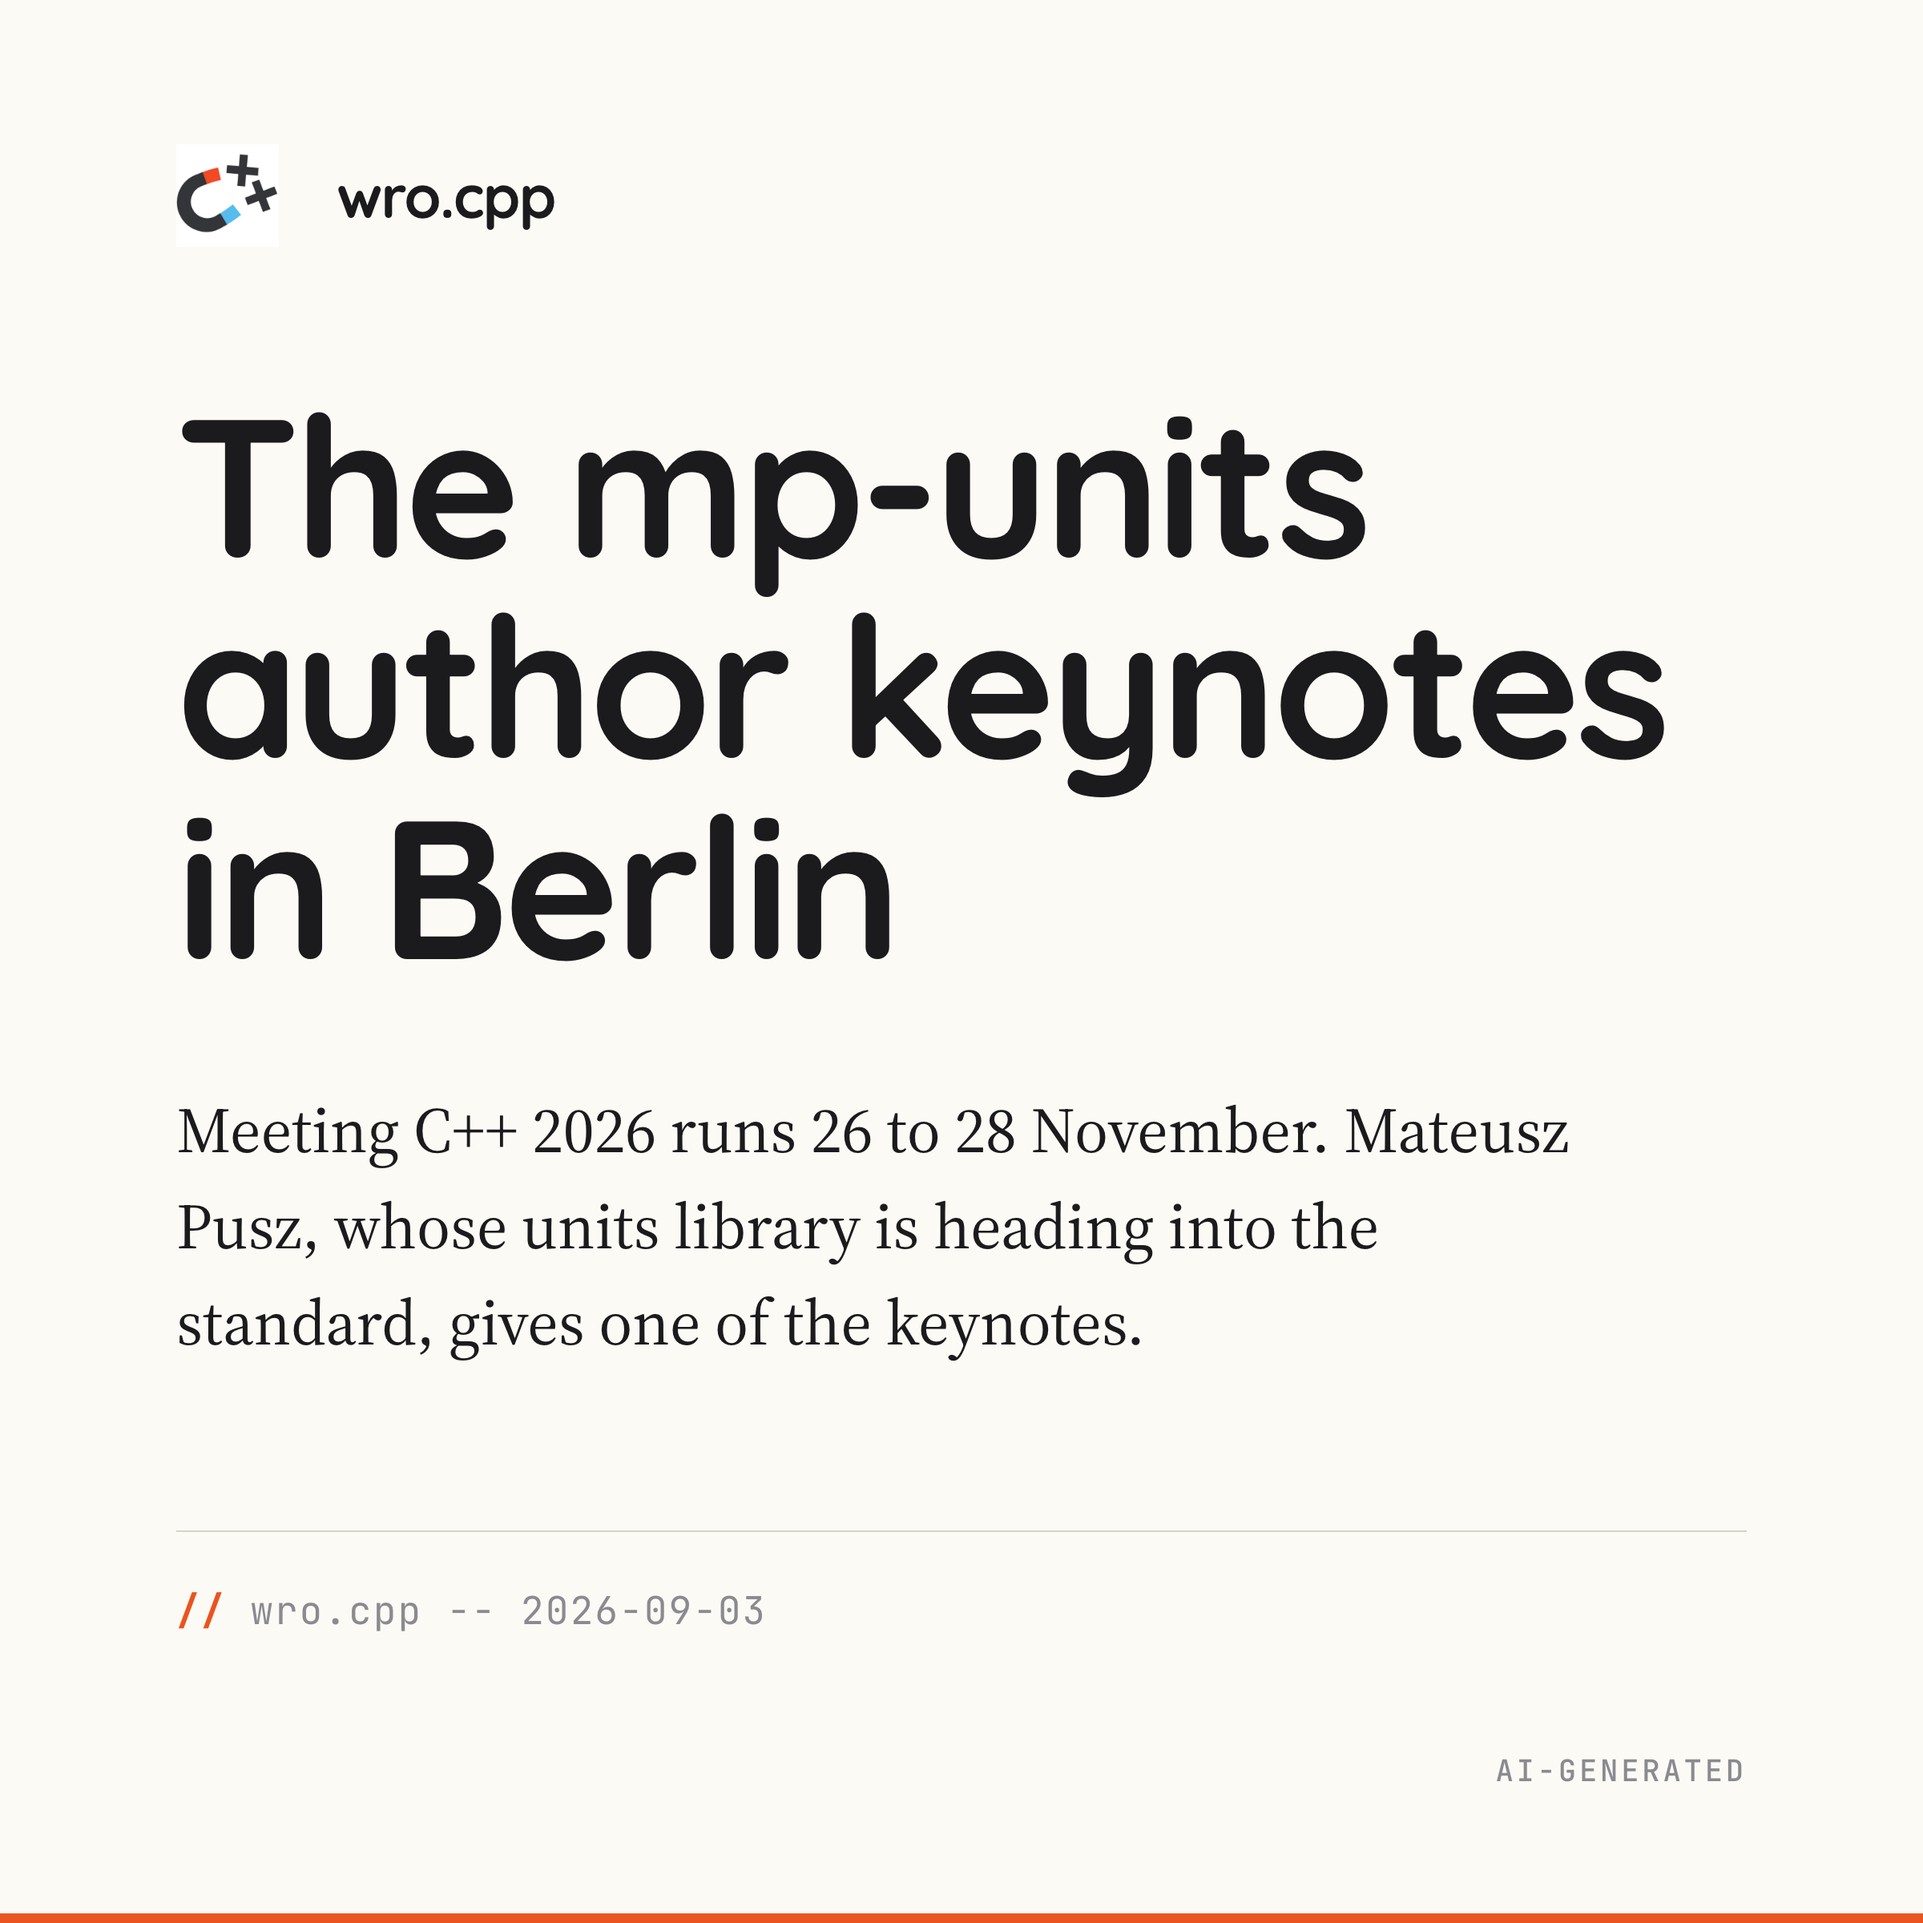
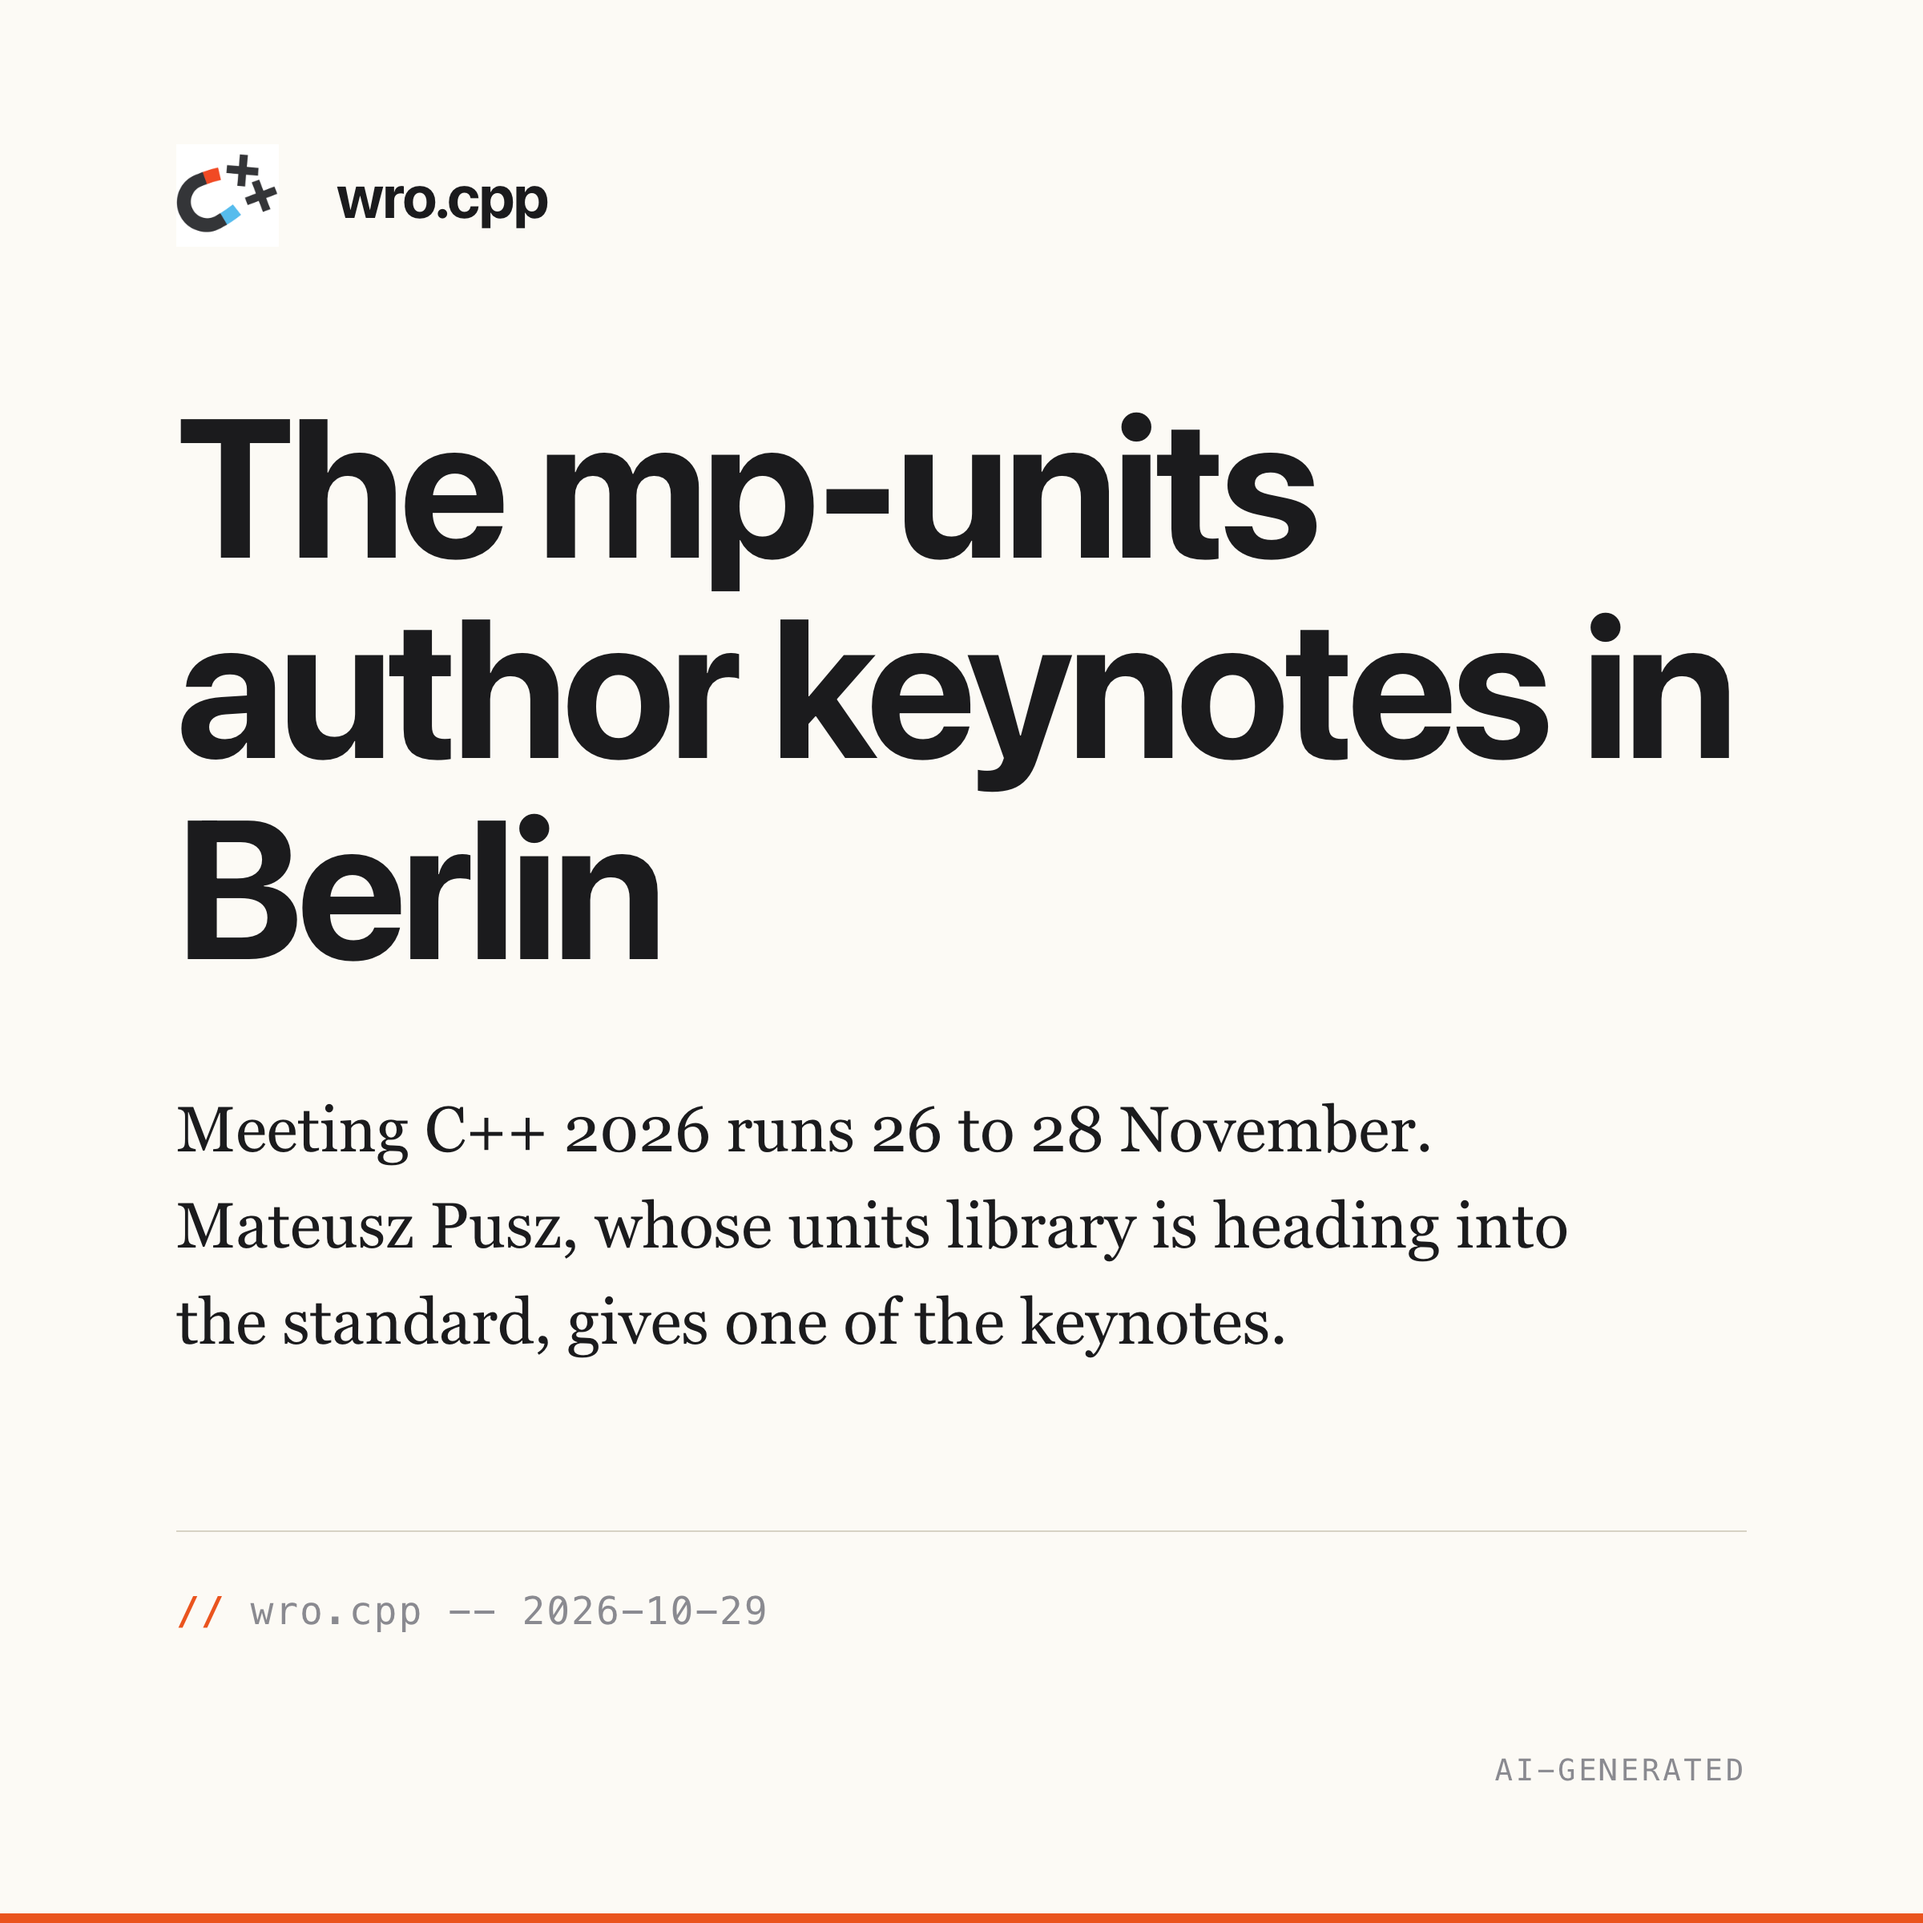
chore(schedule): move meetingcpp-2026-pusz to 2026-10-29
Frees 2026-09-02 for the C++29 mode short. This also improves the post:
Meeting C++ runs 26 to 28 November, so a preview four weeks out beats one
three months out.

diff --git a/social/facebook/meetingcpp-2026-pusz/index.html b/social/facebook/meetingcpp-2026-pusz/index.html
@@ -23,6 +23,6 @@
   </defs>
 </svg>
 
-<section class="card card-insight dark"><div class="grid-bg"></div><div class="glow"></div><div class="insight-content"><h1>The mp-units author keynotes in Berlin</h1><p>Meeting C++ 2026 runs 26 to 28 November. Mateusz Pusz, whose units library is heading into the standard, gives one of the keynotes.</p><div class="insight-citation">wro.cpp -- 2026-09-03</div></div><div class="logo-watermark top-left"><svg viewBox="0 0 512 512" aria-hidden="true"><use href="#scudo-logo"/></svg><span class="logo-wordmark">ScudoAI</span></div><div class="ai-badge">AI-generated</div></section>
+<section class="card card-insight dark"><div class="grid-bg"></div><div class="glow"></div><div class="insight-content"><h1>The mp-units author keynotes in Berlin</h1><p>Meeting C++ 2026 runs 26 to 28 November. Mateusz Pusz, whose units library is heading into the standard, gives one of the keynotes.</p><div class="insight-citation">wro.cpp -- 2026-10-29</div></div><div class="logo-watermark top-left"><svg viewBox="0 0 512 512" aria-hidden="true"><use href="#scudo-logo"/></svg><span class="logo-wordmark">ScudoAI</span></div><div class="ai-badge">AI-generated</div></section>
 </body>
 </html>

diff --git a/social/linkedin/meetingcpp-2026-pusz/index.html b/social/linkedin/meetingcpp-2026-pusz/index.html
@@ -23,6 +23,6 @@
   </defs>
 </svg>
 
-<section class="card card-insight dark"><div class="grid-bg"></div><div class="glow"></div><div class="insight-content"><h1>The mp-units author keynotes in Berlin</h1><p>Meeting C++ 2026 runs 26 to 28 November. Mateusz Pusz, whose units library is heading into the standard, gives one of the keynotes.</p><div class="insight-citation">wro.cpp -- 2026-09-03</div></div><div class="logo-watermark top-left"><svg viewBox="0 0 512 512" aria-hidden="true"><use href="#scudo-logo"/></svg><span class="logo-wordmark">ScudoAI</span></div><div class="ai-badge">AI-generated</div></section>
+<section class="card card-insight dark"><div class="grid-bg"></div><div class="glow"></div><div class="insight-content"><h1>The mp-units author keynotes in Berlin</h1><p>Meeting C++ 2026 runs 26 to 28 November. Mateusz Pusz, whose units library is heading into the standard, gives one of the keynotes.</p><div class="insight-citation">wro.cpp -- 2026-10-29</div></div><div class="logo-watermark top-left"><svg viewBox="0 0 512 512" aria-hidden="true"><use href="#scudo-logo"/></svg><span class="logo-wordmark">ScudoAI</span></div><div class="ai-badge">AI-generated</div></section>
 </body>
 </html>

diff --git a/social/facebook/meetingcpp-2026-pusz/content.md b/social/facebook/meetingcpp-2026-pusz/content.md
@@ -4,7 +4,7 @@ template: social/linkedin-post
 
 ::::post{type=insight theme=dark logo=top-left}
 
-:::insight{citation="wro.cpp -- 2026-09-02"}
+:::insight{citation="wro.cpp -- 2026-10-29"}
 # The mp-units author keynotes in Berlin
 Meeting C++ 2026 runs 26 to 28 November. Mateusz Pusz, whose units library is heading into the standard, gives one of the keynotes.
 :::

diff --git a/social/linkedin/meetingcpp-2026-pusz/content.md b/social/linkedin/meetingcpp-2026-pusz/content.md
@@ -4,7 +4,7 @@ template: social/linkedin-post
 
 ::::post{type=insight theme=dark logo=top-left}
 
-:::insight{citation="wro.cpp -- 2026-09-02"}
+:::insight{citation="wro.cpp -- 2026-10-29"}
 # The mp-units author keynotes in Berlin
 Meeting C++ 2026 runs 26 to 28 November. Mateusz Pusz, whose units library is heading into the standard, gives one of the keynotes.
 :::
